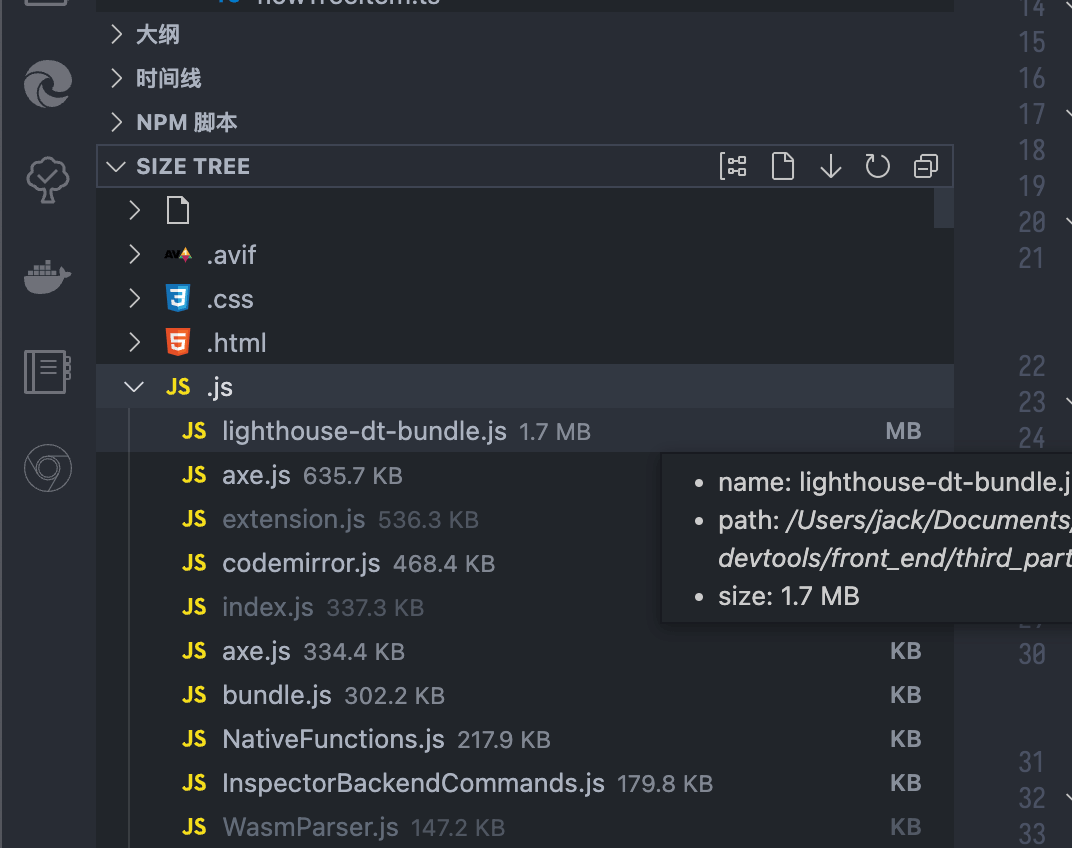
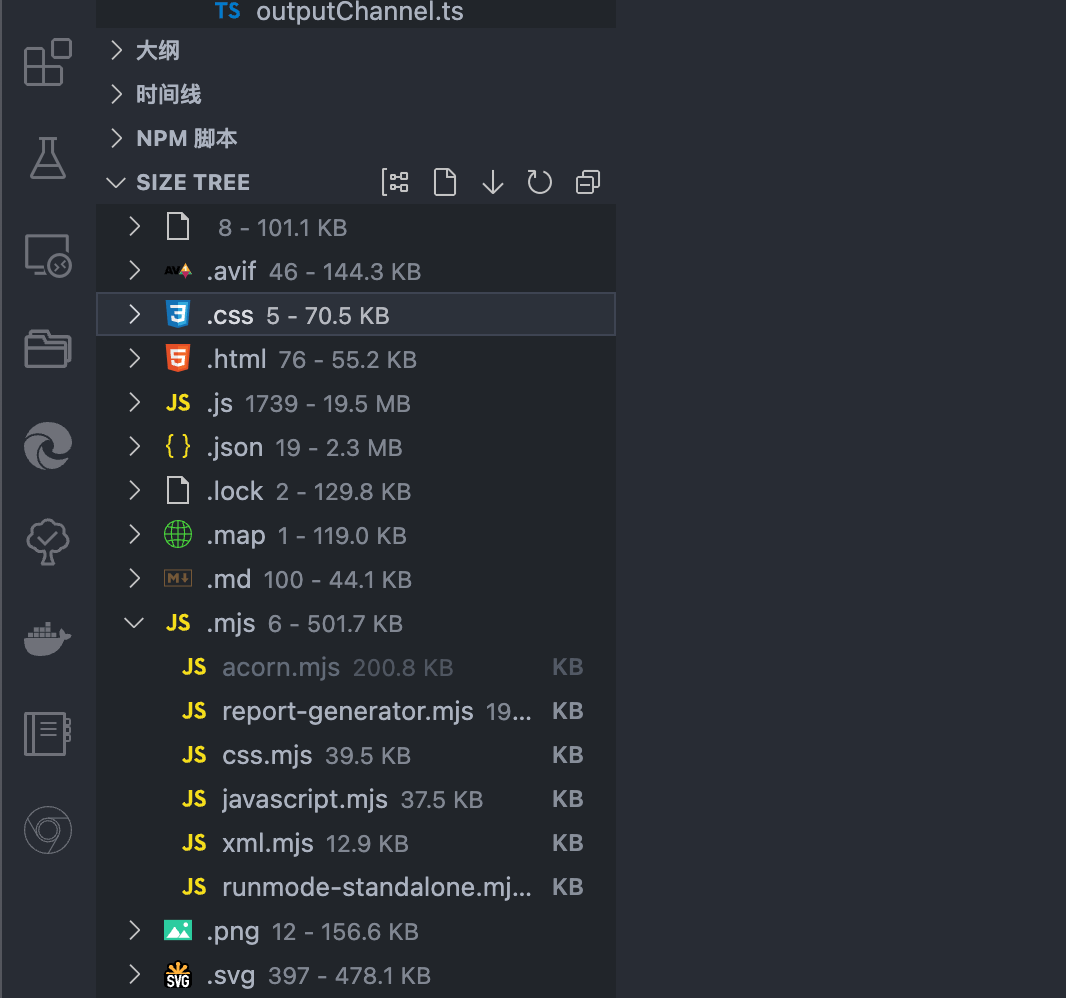
feat: 0.0.3

diff --git a/src/extension.ts b/src/extension.ts
@@ -84,6 +84,12 @@ export function activate(context: vscode.ExtensionContext) {
             super(fileUri, collapsibleState);
             this.iconPath = vscode.ThemeIcon.File;
             this.label = type;
+            const count = children.length;
+            const totalSize = convertBytes(children.reduce((acc, item) => acc += item.size, 0));
+            this.description = `${count} - ${totalSize}`;
+            this.tooltip = new vscode.MarkdownString('');
+            this.tooltip.appendMarkdown(`- total: ${count}\n`);
+            this.tooltip.appendMarkdown(`- size: ${totalSize}\n`);
             this.children = children;
         }
     }
